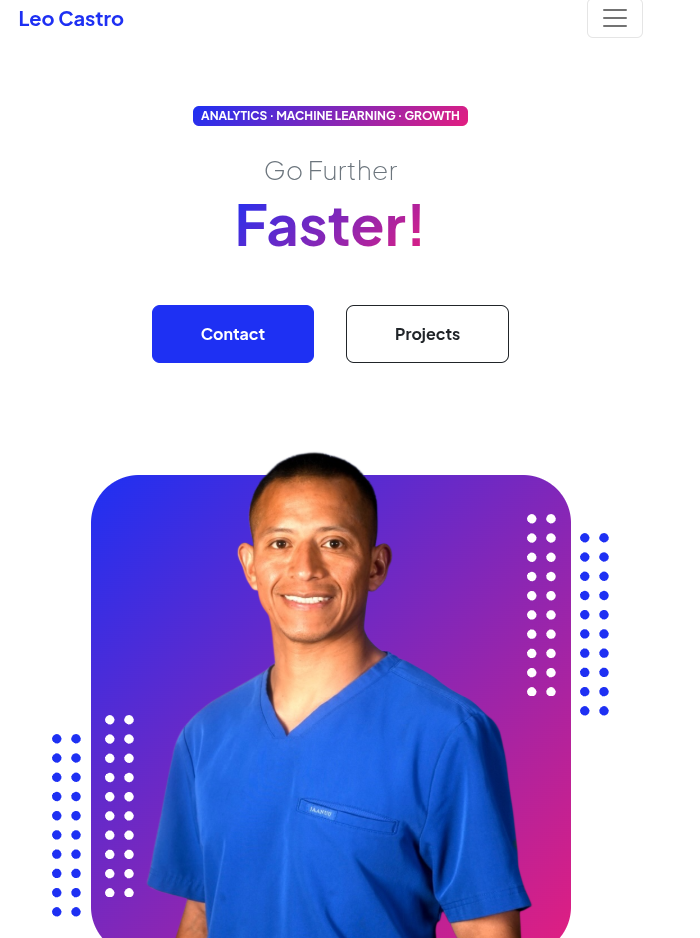
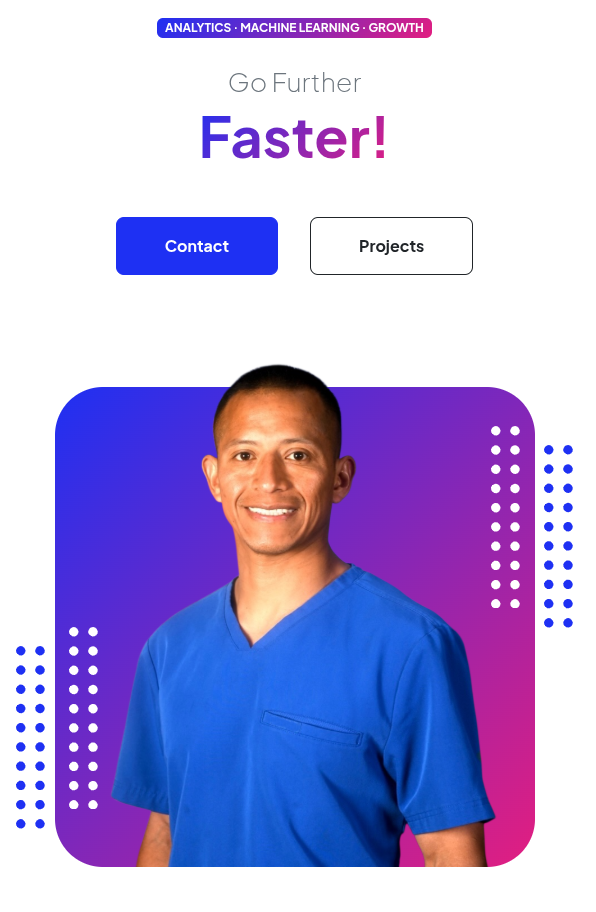
updated pics

diff --git a/index.html b/index.html
@@ -55,7 +55,7 @@
                                 <div class="profile bg-gradient-primary-to-secondary">
                                     <!-- TIP: For best results, use a photo with a transparent background like the demo example below-->
                                     <!-- Watch a tutorial on how to do this on YouTube (link)-->
-                                    <img class="profile-img" src="assets/leo_profile4.png" alt="..." />
+                                    <img class="profile-img" src="assets/profile.png" alt="..." />
                                     <div class="dots-1">
                                         <!-- SVG Dots-->
                                         <svg version="1.1" xmlns="http://www.w3.org/2000/svg" xmlns:xlink="http://www.w3.org/1999/xlink" x="0px" y="0px" viewBox="0 0 191.6 1215.4" style="enable-background: new 0 0 191.6 1215.4" xml:space="preserve">
